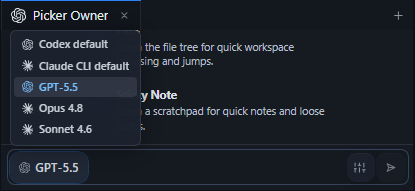
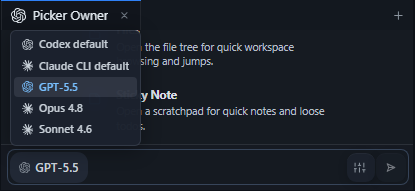
Prepare v0.16.14 release

Changed region(s): [[0.0578, 0.0524, 0.2602, 0.1047], [0.0289, 0.9424, 0.2024, 0.9686], [0.0289, 0.7853, 0.2024, 0.8115]]

diff --git a/tests/provider-system-prompt.test.ts b/tests/provider-system-prompt.test.ts
@@ -2999,6 +2999,60 @@ test('claude assistant tool_use messages do not leak bare call protocol markers 
   )
 })
 
+test('claude final assistant text tool-call XML is stripped and resumes instead of ending on count', async () => {
+  const script = [
+    "const reply = (message) => process.stdout.write(`${JSON.stringify(message)}\\n`)",
+    "reply({ type: 'system', subtype: 'init', session_id: 'claude-session-final-typed-tool' })",
+    "reply({",
+    "  type: 'assistant',",
+    "  message: {",
+    "    id: 'msg_final_typed_tool',",
+    "    content: [",
+    "      {",
+    "        type: 'text',",
+    "        text: 'Inspect first.\\n\\n<function_calls>\\n  <invoke name=\"Grep\">\\n    <parameter name=\"output_mode\">count',",
+    "      },",
+    "    ],",
+    "  },",
+    "})",
+    "reply({ type: 'result', is_error: false, result: 'ok' })",
+  ].join('\n')
+
+  const events = await withFakeProviderCommand(
+    'claude',
+    script,
+    async (workspacePath) =>
+      captureProviderEvents(
+        createRequest({
+          provider: 'claude',
+          language: 'en',
+          workspacePath,
+        }),
+      ),
+  )
+
+  const visibleText = events
+    .filter((event) => event.kind === 'delta')
+    .map((event) => event.content)
+    .join('')
+
+  assert.match(visibleText, /Inspect first\./)
+  assert.doesNotMatch(visibleText, /count|parameter|function_calls|invoke/i)
+  assert.ok(
+    events.some(
+      (event) =>
+        event.kind === 'error' &&
+        /without running its tool call/i.test(event.message),
+    ),
+    `expected resumable typed-tool-call error, got ${JSON.stringify(events)}`,
+  )
+  assert.equal(
+    events.some((event) => event.kind === 'done'),
+    false,
+    `typed tool-call turn should not end cleanly: ${JSON.stringify(events)}`,
+  )
+})
+
 test('claude ask-user tool use keeps prose before the question and then emits the structured activity', async () => {
   const events = await withFakeProviderCommand(
     'claude',

diff --git a/server/providers.ts b/server/providers.ts
@@ -38,7 +38,6 @@ import { resolveImageAttachmentPath } from './attachments.js'
 import {
   createClaudeAskUserDeltaStripper,
   createClaudeStructuredOutputParser,
-  stripClaudeAskUserXmlBlocks,
 } from './claude-structured-output.js'
 import { createCodexCompactionActivityDeduper } from './codex-compaction-dedupe.js'
 import { resolveClaudeRuntimeEnvironment } from './claude-runtime-environment.js'
@@ -2159,12 +2158,17 @@ export const launchProviderRun = async (request: ChatRequest, sink: StreamSink) 
             )
             const textContent = event.message.content
               .filter((item: { type?: string; text?: string }) => item.type === 'text')
-              .map((item: { text?: string }) => stripClaudeAskUserXmlBlocks(item.text ?? ''))
+              .map((item: { text?: string }) => item.text ?? '')
               .join('')
+            const safeTextContent =
+              askUserDeltaStripper.push(textContent) + askUserDeltaStripper.flush()
 
-            if (textContent.trim() && !(hasToolUse && isBareClaudeToolCallMarkerText(textContent))) {
+            if (
+              safeTextContent.trim() &&
+              !(hasToolUse && isBareClaudeToolCallMarkerText(safeTextContent))
+            ) {
               sawMeaningfulAssistantText = true
-              sink.onDelta(textContent)
+              sink.onDelta(safeTextContent)
             }
           }
         }

diff --git a/tests/electron-runtime.test.ts b/tests/electron-runtime.test.ts
@@ -308,7 +308,7 @@ test('Playwright browser validation is forced into headless mode by config and r
   assert.match(configBody, /headless:\s*true/)
   assert.match(configBody, /webServer:\s*{/)
   assert.match(configBody, /command:\s*['"]node scripts\/run-vite\.mjs --host 127\.0\.0\.1 --strictPort['"]/)
-  assert.match(configBody, /reuseExistingServer:\s*false/)
+  assert.match(configBody, /reuseExistingServer:\s*process\.env\.PW_REUSE_SERVER\s*===\s*['"]1['"]/)
   assert.match(runnerBody, /Remove-Item Env:PWDEBUG -ErrorAction SilentlyContinue/)
   assert.match(runnerBody, /\('exec', 'playwright', 'test', '--config', 'playwright\.config\.ts'\)/)
 })

diff --git a/tests/structured-chat-blocks.test.tsx b/tests/structured-chat-blocks.test.tsx
@@ -779,4 +779,3 @@ test('renders Codex multi-agent activity as a compact agent list', () => {
   assert.match(markup, /Running/)
   assert.match(markup, />Open</)
 })
-

diff --git a/AGENTS.md b/AGENTS.md
@@ -395,7 +395,7 @@ A living list of traps that have wasted time before. **When you hit a new pitfal
 | 152 | Claude CLI may start another Bash/tool_use or finish the turn without emitting a local-command completion block for the previous command | Settle any still-open Claude command when the next command starts or when the final `result` arrives, otherwise old command rows keep animated blue dots forever and the stream watchdog stays disarmed. |
 | 153 | A streaming prose mention can arrive as `` `<function_calls>`` with no following backtick yet | The delta stripper must release any stripped tag that is immediately preceded by a backtick, instead of waiting for the body byte after the open tag; otherwise live text appears cut off until a later chunk/flush disambiguates it. |
 
-| 154 | Claude typed-as-text tool XML can survive as final assistant Markdown, not only as streamed deltas | The renderer fallback must strip complete and unterminated `<function_calls>` / `<invoke>` / attribute-bearing `<parameter>` blocks before ReactMarkdown, otherwise Markdown hides the tags and renders only inner values like `count`. |
+| 154 | Claude typed-as-text tool XML can survive as final assistant text, not only as streamed deltas | The provider final-assistant path must run the same stripper before emitting deltas, and the renderer fallback must still strip complete and unterminated `<function_calls>` / `<invoke>` / attribute-bearing `<parameter>` blocks before ReactMarkdown; otherwise Markdown hides the tags and renders only inner values like `count`. |
 
 | 155 | Claude `stream-json` assistant events can include a text block containing only `call:` immediately before a real `tool_use` block | Treat that bare text as a provider protocol marker in the server fold, not as user-visible assistant prose; otherwise the UI fills with `call:` even though the native tool call is actually present. |
 

diff --git a/docs/design.md b/docs/design.md
@@ -154,7 +154,7 @@ type ChatCard = {
 - 当当前 provider 的本地 CLI 不可用时，聊天发送仍然要进入应用层校验，并在卡片内追加“本地 CLI 不可用”的系统提示；不能只禁用发送按钮让用户反复点击却没有反馈。
 - Claude 流式输出的健壮性（`server/claude-structured-output.ts` + `server/providers.ts` + `server/provider-stream-recovery.ts`）：
   - 模型偶尔把工具调用打成文本（`<function_calls>`/`<invoke>`/`<parameter>`）。增量去除器会剥离这些 XML；遇到**未闭合**的工具调用/ask-user 块时，`flush()` 必须**丢弃**而不是原样吐出——否则渲染层（ReactMarkdown，仅 remark-gfm）会吃掉标签只留下 `<parameter>` 里的内层文本（如 `count`），形成孤立气泡。容器常被换行美化，所以 `<function_calls>` 需容忍其后空白。
-  - If malformed Claude text reaches final assistant Markdown (not only streamed deltas), the renderer fallback must remove complete or unterminated `<function_calls>` / `<invoke>` blocks and nested attribute-bearing `<parameter ...>` blocks; otherwise Markdown hides the tags but shows inner values like `count`.
+  - If malformed Claude text reaches final assistant text (not only streamed deltas), the provider final-assistant path must run the same stripper before emitting deltas, and the renderer fallback must still remove complete or unterminated `<function_calls>` / `<invoke>` blocks plus nested attribute-bearing `<parameter ...>` blocks; otherwise Markdown hides the tags but shows inner values like `count`.
   - When Claude is only mentioning those XML tag names in prose, a leading backtick is enough proof that the tag is user-visible text; stream it immediately instead of waiting for the next body byte, or the live reply looks cut off at the tag.
   - 一轮如果**只**产出了被剥离的工具调用文本（没有真正执行工具、没有有效正文），干净的 `result` 会让聊天静默“停住”。用 `shouldRecoverEmptyToolCallTurn(...)` 判定后改发可恢复的 `resume-session` 错误，交给前端有上限的重试机制自动续跑。
   - Claude 流路径带有失速看门狗：每条 stdout 行都会重置计时器，长时间静默且无终止事件时发可恢复的 `stalled …` 错误；但**有命令在执行时必须停表**（`resolveLocalStreamStallTimeoutMs` 在 `openCommandCount > 0` 时返回 `null`），因为 CLI 执行工具期间本就没有 stdout，否则会误杀正常的长命令。